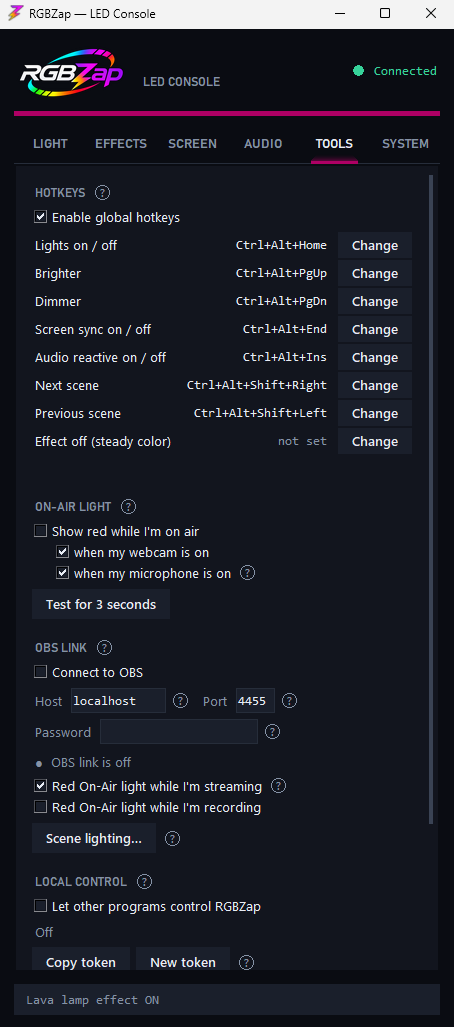
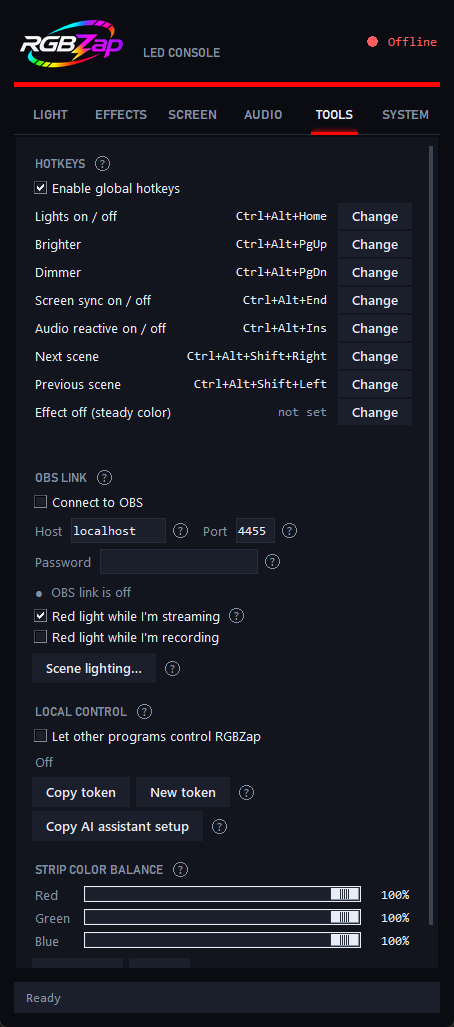
Remove the webcam/microphone On-Air light; release 1.3.1
It relied on Windows' camera/microphone privacy log, which does not record anything on
some PCs, so it could not be made reliable. The OBS link and its red light while
streaming/recording stay. Tray item, Tools tab section, settings, module (rgbzap_onair)
and docs removed; old onair* keys in settings files are ignored. New Tools screenshot.

diff --git a/rgbzap_tools.py b/rgbzap_tools.py
@@ -1,10 +1,10 @@
-"""RGBZap's TOOLS tab: global hotkeys, the On-Air light, the OBS link, the local control
-API, and the strip's color balance.
+"""RGBZap's TOOLS tab: global hotkeys, the OBS link (incl. its red live light), the local
+control API, and the strip's color balance.
 
 The app hands this module itself (`app`) and its drawing theme (`app.ui`); this module
 never imports the main program. Everything that touches the lights goes through a few
 App methods (app.set_color, app.on_off, app.apply_scene, ...), always on the Tk thread:
-background threads (hotkeys, camera watcher, OBS, the API server) hop over with
+background threads (hotkeys, OBS, the API server) hop over with
 root.after().
 """
 import os
@@ -16,7 +16,6 @@ import tkinter as tk
 import rgbzap_api as api_mod
 import rgbzap_hotkeys as hotkeys
 import rgbzap_obs as obs_mod
-import rgbzap_onair as onair_mod
 
 _MODIFIER_KEYSYMS = {"Control_L", "Control_R", "Alt_L", "Alt_R", "Shift_L", "Shift_R",
                      "Win_L", "Win_R", "Super_L", "Super_R", "Meta_L", "Meta_R",
@@ -59,15 +58,8 @@ class ToolsTab:
         self.hk_on, self.hk = cfg["hotkeys_on"], dict(cfg["hotkeys"])
         self.hotkey_mgr = hotkeys.HotkeyManager(
             lambda action: self.root.after(0, self.app.run_hotkey, action))
-        # ---- On-Air: webcam / microphone, plus OBS going live
-        self.onair_enabled, self.onair_cam, self.onair_mic = (
-            cfg["onair"], cfg["onair_cam"], cfg["onair_mic"])
-        self._caps = {"cam": False, "mic": False}
+        # ---- OBS link (red light while streaming / recording)
         self._obs_state = (False, False)               # (streaming, recording)
-        self._test_until = 0.0
-        self.watcher = onair_mod.CapabilityWatcher(
-            lambda s: self.root.after(0, self._caps_update, s))
-        # ---- OBS link
         self.obs_on, self.obs_host, self.obs_port = cfg["obs_on"], cfg["obs_host"], cfg["obs_port"]
         self.obs_password = cfg["obs_password"]
         self.obs_live, self.obs_rec = cfg["obs_live"], cfg["obs_rec"]
@@ -138,25 +130,6 @@ class ToolsTab:
         self.hk_note.pack(fill="x")
         self._refresh_hotkey_labels({})
 
-        # ---- On-Air
-        app._heading(p, "On-Air light", pady=(18, 4), help=(
-            "Turns the strip red while your webcam (and, if you tick it, your microphone) "
-            "is in use, so people around you know you're live on a call or stream. "
-            "RGBZap only asks Windows whether the camera or mic is switched on. It never "
-            "uses the camera, hears audio, or sees which app is using them. When it "
-            "stops, the strip goes back to what it was showing."))
-        self.onair_var = tk.BooleanVar(value=self.onair_enabled)
-        self._check(p, "Show red while I'm on air", self.onair_var, self.on_onair_toggle)
-        self.cam_var = tk.BooleanVar(value=self.onair_cam)
-        self.mic_var = tk.BooleanVar(value=self.onair_mic)
-        self._check(p, "when my webcam is on", self.cam_var, self.on_onair_opts, indent=22)
-        self._check(p, "when my microphone is on", self.mic_var, self.on_onair_opts, indent=22,
-                    help="Off by default: voice chat apps like Discord use the microphone "
-                         "all the time, which would keep the strip red while you game.")
-        trow = tk.Frame(p, bg=ui.PANEL)
-        trow.pack(fill="x", pady=(6, 0))
-        app._flat(trow, "Test for 3 seconds", self.test_onair, pady=4).pack(side="left")
-
         # ---- OBS link
         app._heading(p, "OBS link", pady=(18, 4), help=(
             "Connects to OBS Studio (version 28 or newer) so the strip can follow your "
@@ -194,9 +167,10 @@ class ToolsTab:
         self.obs_status.pack(fill="x", pady=(6, 2))
         self.live_var = tk.BooleanVar(value=self.obs_live)
         self.rec_var = tk.BooleanVar(value=self.obs_rec)
-        self._check(p, "Red On-Air light while I'm streaming", self.live_var, self.on_obs_opts,
-                    help="The same red light as above, switched on by OBS going live.")
-        self._check(p, "Red On-Air light while I'm recording", self.rec_var, self.on_obs_opts)
+        self._check(p, "Red light while I'm streaming", self.live_var, self.on_obs_opts,
+                    help="The strip turns solid red while OBS is live, then goes back to "
+                         "what it was showing.")
+        self._check(p, "Red light while I'm recording", self.rec_var, self.on_obs_opts)
         srow = tk.Frame(p, bg=ui.PANEL)
         srow.pack(fill="x", pady=(6, 0))
         app._flat(srow, "Scene lighting…", self.edit_obs_scenes, pady=4).pack(side="left")
@@ -344,17 +318,14 @@ class ToolsTab:
         top.grab_set()
         top.focus_force()
 
-    # =============================================================== On-Air
+    # ============================================== red light while OBS is live
     def _want_onair(self):
-        cam_mic = self.onair_enabled and ((self.onair_cam and self._caps["cam"])
-                                          or (self.onair_mic and self._caps["mic"]))
-        obs = self.obs_on and ((self.obs_live and self._obs_state[0])
-                               or (self.obs_rec and self._obs_state[1]))
-        return bool(cam_mic or obs or self._test_until > time.monotonic())
+        return bool(self.obs_on and ((self.obs_live and self._obs_state[0])
+                                     or (self.obs_rec and self._obs_state[1])))
 
     def _onair_update(self):
-        """Light or release the red On-Air light to match what's happening. Safe to call
-        as often as you like (it's also a heartbeat)."""
+        """Light or release the steady red light to match OBS. Safe to call as often as
+        you like (it's also a heartbeat)."""
         ble = self.app.ble
         want = self._want_onair()
         ble.onair_on = want
@@ -362,40 +333,8 @@ class ToolsTab:
         if want and not running and ble._connected():
             ble.submit(ble._alert("onair", self.app.brightness, max_s=self.ui.ONAIR_MAX_S))
 
-    def _caps_update(self, state):
-        self._caps = state
-        self._onair_update()
-
     def on_strip_connected(self):
         self._onair_update()
-
-    def on_onair_toggle(self):
-        self.onair_enabled = self.onair_var.get()
-        if self.onair_enabled:
-            self.watcher.start()
-        else:
-            self.watcher.stop()
-            self._caps = {"cam": False, "mic": False}
-        self._onair_update()
-        self.app.set_status("On-Air light on" if self.onair_enabled else "On-Air light off")
-
-    def toggle_onair(self):
-        """From the tray menu."""
-        self.onair_var.set(not self.onair_enabled)
-        self.on_onair_toggle()
-
-    def on_onair_opts(self):
-        self.onair_cam, self.onair_mic = self.cam_var.get(), self.mic_var.get()
-        self._onair_update()
-
-    def test_onair(self):
-        if not self.app.ble._connected():
-            self.app.set_status("Connect a light strip first")
-            return
-        self._test_until = time.monotonic() + 3.0
-        self._onair_update()
-        self.root.after(3300, self._onair_update)         # release it after the test
-        self.app.set_status("On-Air test: red for 3 seconds")
 
     # ================================================================== OBS
     def _obs_apply(self):
@@ -439,7 +378,7 @@ class ToolsTab:
         self._onair_update()
         if streaming or recording:
             self.app.set_status("OBS is " + ("live" if streaming else "recording")
-                                + " - On-Air light")
+                                + " - red light on")
 
     def _obs_scene_list(self, names):
         self.obs_scene_names = list(names)
@@ -636,8 +575,6 @@ class ToolsTab:
                 n = len(failed)
                 self.app.set_status(f"{n} hotkey{'s' * (n != 1)} couldn't be set (another "
                                     "program uses them) - see the Tools tab")
-        if self.onair_enabled:
-            self.watcher.start()
         if self.obs_on:
             self._obs_apply()
             self.obs.start()
@@ -646,7 +583,6 @@ class ToolsTab:
 
     def stop(self):
         self.hotkey_mgr.stop()
-        self.watcher.stop()
         self.obs.stop()
         self.api.stop()
         self.app.ble.onair_on = False
@@ -655,8 +591,6 @@ class ToolsTab:
         """The settings this tab owns, for the app's settings file."""
         return {
             "hotkeys_on": self.hk_on, "hotkeys": dict(self.hk),
-            "onair": self.onair_enabled, "onair_cam": self.onair_cam,
-            "onair_mic": self.onair_mic,
             "obs_on": self.obs_on, "obs_host": self.obs_host, "obs_port": self.obs_port,
             "obs_password": self.obs_password, "obs_live": self.obs_live,
             "obs_rec": self.obs_rec, "obs_scenes": dict(self.obs_scenes),

diff --git a/elk_gui.py b/elk_gui.py
@@ -45,7 +45,6 @@ from elk_protocol import (NAME_PREFIXES, EFFECTS, is_strip_name, pick_write_char
 import rgbzap_api as api_mod
 import rgbzap_hotkeys as hotkeys
 import rgbzap_obs as obs_mod
-import rgbzap_onair as onair_mod
 import rgbzap_session as session_mod
 import rgbzap_tools
 from rgbzap_comfort import FADES, FlashLimiter, apply_balance, fade_steps
@@ -74,7 +73,7 @@ ADDR_FILE = data_file("address.txt", legacy=os.path.join(_HERE, "elk_address.txt
 # logo / icons; inside the built exe they're unpacked under sys._MEIPASS
 ASSETS = os.path.join(getattr(sys, "_MEIPASS", os.path.dirname(os.path.abspath(__file__))),
                       "assets")
-APP_VERSION = "1.3.0"
+APP_VERSION = "1.3.1"
 APP_URL = "https://github.com/TGDRangaka/RGBZap"
 AUTHOR_URL = "https://dilshan-rangaka.vercel.app/"
 # arbitrary localhost port used as a single-instance lock (RGBZAP_LOCK_PORT lets tests run
@@ -433,7 +432,7 @@ def is_call(text):
     return bool(_CALL_RE.search(text or ""))
 
 
-ONAIR_MAX_S = 24 * 3600                 # an On-Air light holds until the camera/mic/OBS stops
+ONAIR_MAX_S = 24 * 3600                 # the red "live" light holds until OBS stops
 ONAIR_RED = (255, 0, 0)
 
 
@@ -521,7 +520,6 @@ DEFAULT_SETTINGS = {
     "bal_r": 100, "bal_g": 100, "bal_b": 100,      # strip color balance (% gain per channel)
     "hotkeys_on": True,
     "hotkeys": {a: d for a, (_label, d) in HOTKEY_ACTIONS.items()},
-    "onair": False, "onair_cam": True, "onair_mic": False,   # red while camera / mic is on
     "obs_on": False, "obs_host": "localhost", "obs_port": 4455, "obs_password": "",
     "obs_live": True, "obs_rec": False,            # red while streaming / recording
     "obs_scenes": {},                   # OBS scene name -> RGBZap scene name
@@ -831,7 +829,7 @@ class BleWorker:
         self._alert_kind = None
         self._alert_lock = asyncio.Lock()
         self.alert_cancel = False            # set from any thread: stop the current alert
-        self.onair_on = False                # set from any thread: keep the On-Air light lit
+        self.onair_on = False                # set from any thread: keep the red live light lit
         self.frozen = False                  # True while the PC shuts down: writes are dropped
         self.calm = False                    # "Reduce flashing": gentler alerts
         self.balance = (1.0, 1.0, 1.0)       # per-channel gain, fixes a tinted "white"
@@ -2098,7 +2096,7 @@ class App:
                  ).pack(side="left")
         self._link(about, APP_URL.removeprefix("https://"), APP_URL).pack(anchor="w")
 
-        # ---- TOOLS tab: hotkeys, On-Air light, OBS link, local control, color balance
+        # ---- TOOLS tab: hotkeys, OBS link, local control, color balance
         self.tools = rgbzap_tools.ToolsTab(self, tools, cfg)
 
         # lock a consistent width; let height be resized (min keeps it usable)
@@ -2125,7 +2123,7 @@ class App:
         resume = (cfg["effect"], cfg["speed"]) if self.mode == "effect" else None
         self.ble.submit(self._launch(resume))
         self.root.after(2000, self._autosave)
-        self.tools.start()                    # hotkeys, On-Air watcher, OBS link, local API
+        self.tools.start()                    # hotkeys, OBS link, local API
         self.session.start()                  # hear Windows shut down / restart / sign out
         shutdown_log(f"RGBZap {APP_VERSION} started; shutdown listener "
                      f"{'ready' if self.session._hwnd else 'NOT created'}; lights-off-with-PC "
@@ -2423,7 +2421,7 @@ class App:
                 self._refresh_strips(addr)
             self._draw_link()
             if state and getattr(self, "tools", None) is not None:
-                self.tools.on_strip_connected()      # re-light On-Air if it's already on air
+                self.tools.on_strip_connected()      # re-light red if OBS is already live
         self.root.after(0, _apply)
 
     def send(self, payload):
@@ -3365,8 +3363,6 @@ class App:
                  checked=lambda _i: self.sync.running),
             Item("Audio reactive", act(self.on_toggle_audio),
                  checked=lambda _i: self.audio.running),
-            Item("On-Air light", act(self.tools.toggle_onair),
-                 checked=lambda _i: self.tools.onair_enabled),
             Menu.SEPARATOR,
             Item("Quit RGBZap", act(self.quit)),
         )
@@ -3566,7 +3562,7 @@ def _selftest():
     mine = {"fade": "Slow", "reduce_flash": True, "area": "Edges", "crop_bars": False,
             "bal_r": 90, "bal_g": 80, "bal_b": 100, "hotkeys_on": False,
             "hotkeys": {"toggle_power": "Alt+Ctrl+Home", "brightness_up": "", "bogus": "ctrl+alt+x"},
-            "onair": True, "onair_mic": True, "obs_on": True, "obs_host": "pc.local",
+            "obs_on": True, "obs_host": "pc.local",
             "obs_port": 4456, "obs_password": "pw",
             "obs_scenes": {"Game": "Focus", "": "x", "Bad": 5}, "api_on": True,
             "api_port": 50000, "api_token": "a" * 32}
@@ -3584,16 +3580,20 @@ def _selftest():
         ("pc.local", 4456, 50000, "a" * 32)
     junk = {"fade": "Warp", "area": "Everywhere", "bal_r": 10, "bal_g": 200, "obs_port": 0,
             "api_port": 80, "api_token": "not-hex", "hotkeys": {"toggle_power": "a"},
-            "obs_host": "x\n", "obs_scenes": [], "onair": "yes"}
+            "obs_host": "x\n", "obs_scenes": []}
     with open(p, "w") as f:
         json.dump(junk, f)
     got = load_settings(p)
     for k in ("fade", "area", "bal_r", "bal_g", "obs_port", "api_port", "api_token", "obs_host",
-              "obs_scenes", "onair"):
+              "obs_scenes"):
         assert got[k] == DEFAULT_SETTINGS[k], (k, got[k])
     assert got["hotkeys"]["toggle_power"] == DEFAULT_SETTINGS["hotkeys"]["toggle_power"]
     assert DEFAULT_SETTINGS["api_on"] is False and DEFAULT_SETTINGS["obs_on"] is False
-    assert DEFAULT_SETTINGS["onair"] is False and DEFAULT_SETTINGS["onair_mic"] is False
+    # settings files from 1.3.0 still carry the removed On-Air keys: they must be ignored
+    with open(p, "w") as f:
+        json.dump({"onair": True, "onair_cam": True, "onair_mic": True, "fade": "Slow"}, f)
+    got = load_settings(p)
+    assert got["fade"] == "Slow" and not any(k.startswith("onair") for k in got), got
     assert DEFAULT_SETTINGS["off_on_shutdown"] is True, "lights should go off with the PC"
     for raw, want in (({"off_on_shutdown": False}, False), ({"off_on_shutdown": "no"}, True)):
         with open(p, "w") as f:
@@ -4047,13 +4047,13 @@ def _selftest():
           " strip switching, alert restore, all-devices scan")
 
     # the feature modules carry their own checks: hotkeys (incl. a real Win32 round trip),
-    # On-Air detection, the OBS link against a fake OBS, the local API's security rules, the
-    # command-line tool end to end, fades / flash limiter, screen-sync helpers, Tools tab logic
+    # the OBS link against a fake OBS, the local API's security rules, the command-line tool
+    # and MCP server end to end, fades / flash limiter, screen-sync helpers, Tools tab logic
     import rgbzap_cli
     import rgbzap_comfort
     import rgbzap_mcp
     import rgbzap_sync
-    for mod in (hotkeys, onair_mod, obs_mod, api_mod, rgbzap_cli, rgbzap_mcp, rgbzap_comfort,
+    for mod in (hotkeys, obs_mod, api_mod, rgbzap_cli, rgbzap_mcp, rgbzap_comfort,
                 rgbzap_sync, session_mod, rgbzap_tools):
         mod._selftest()
 

diff --git a/README.md b/README.md
@@ -3,7 +3,7 @@
 </p>
 
 <p align="center"><b>A free Windows desktop app for cheap Bluetooth LED strips.</b><br>
-Colors, effects, screen sync, music, hotkeys, On-Air light, OBS, notification alerts — no
+Colors, effects, screen sync, music, hotkeys, OBS, AI assistants, notification alerts — no
 phone, no hub, no account.</p>
 
 ---
@@ -35,8 +35,6 @@ Bluetooth LE.
 - **Global hotkeys** — turn the lights on/off, dim or brighten, switch scenes, and start or
   stop screen sync from anywhere, even in a full-screen game. Every shortcut is yours to
   change.
-- **On-Air light** — the strip turns red while your webcam (optionally your microphone) is
-  on, so the people around you know you're live. Switch it from the tray.
 - **OBS link** — red while you stream or record, and a different look for each OBS scene.
   Uses OBS's built-in WebSocket server (OBS 28+), no plugin.
 - **Command line & local API** — `rgbzap color red`, `rgbzap scene "Movie night"`. Drive
@@ -57,12 +55,12 @@ Bluetooth LE.
   Tick **Show all Bluetooth devices** and pick it from there.
 - **Update notices** — a banner tells you when a new version is out (optional, see Privacy).
 - **Lives in the tray** — close the window and it keeps running; right-click the tray icon
-  for colors, scenes, effects, and the On-Air light. Optional start with Windows.
+  for colors, scenes, effects, brightness, and screen sync. Optional start with Windows.
 
 <p align="center">
   <img src="docs/screen.png" width="23%" alt="Screen tab: display, style, sample area, ignore black bars, saturation, smoothing">
   <img src="docs/audio.png" width="23%" alt="Audio tab: source, mode, live meter, sensitivity">
-  <img src="docs/tools.png" width="23%" alt="Tools tab: hotkeys, On-Air light, OBS link, local control">
+  <img src="docs/tools.png" width="23%" alt="Tools tab: hotkeys, OBS link, local control">
   <img src="docs/system.png" width="23%" alt="System tab: start with Windows, lights off with the PC, alerts, comfort">
 </p>
 
@@ -120,12 +118,8 @@ If a shortcut doesn't work, another program already owns it — RGBZap tells you
 can pick a different one. Shortcuts need Ctrl, Alt or Win, so ordinary typing is never
 touched.
 
-## On-Air light and OBS
-**On-Air light** (Tools tab, or the tray menu): the strip goes red while your webcam is in
-use — tick *microphone* too if you want. When it ends, the strip returns to what it was
-showing. RGBZap only asks Windows *whether* the camera or mic is on; it never uses either.
-
-**OBS link**: in OBS turn on *Tools › WebSocket Server Settings › Enable WebSocket server*,
+## OBS link
+In OBS turn on *Tools › WebSocket Server Settings › Enable WebSocket server*,
 then tick **Connect to OBS** in RGBZap's Tools tab and enter the port and password. You
 can have the strip go red while you stream or record, and pick a RGBZap scene for each OBS
 scene with **Scene lighting…**. RGBZap only listens; it can't change anything in OBS.
@@ -196,8 +190,7 @@ downloads or installs anything by itself — if there's a new version you get a 
 download it yourself. Turn it off any time in **System › Updates**. Notification alerts
 are **off by default**; when you turn them on, RGBZap
 reads new notifications on your PC only to tell whether one arrived or a call is ringing —
-nothing is stored or sent anywhere. The **On-Air light** only reads the on/off state Windows
-keeps for the camera and microphone. The **local API** is off by default, only listens on
+nothing is stored or sent anywhere. The **local API** is off by default, only listens on
 this PC and needs a secret token. The **OBS link** talks only to an OBS on the host you
 enter (normally this PC). Global hotkeys register only the exact shortcuts you see in the
 Tools tab; RGBZap never sees other keys you press.
@@ -213,9 +206,6 @@ password, so treat that folder as private.
   it currently works for English-language notifications.
 - **Reduce flashing** switches off the strip's own *Blink* and *Jump* effects, because they
   run inside the strip where RGBZap can't soften them.
-- The On-Air light ignores RGBZap's own audio capture, so using Audio reactive never lights
-  it. Voice-chat apps use the microphone constantly, which is why the microphone option is
-  off by default.
 
 ## Build it yourself
 ```
